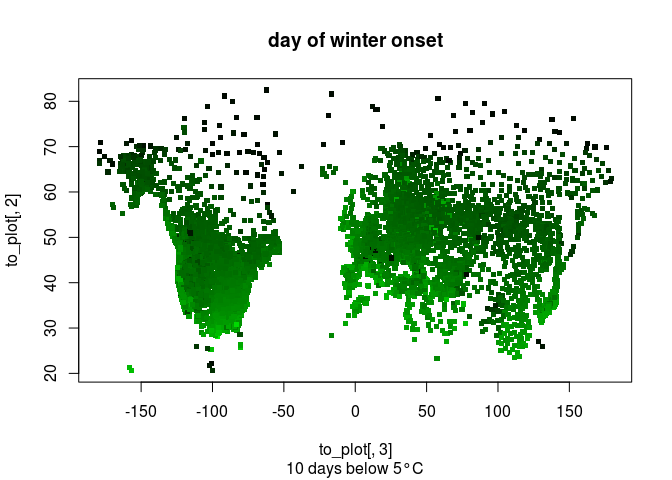
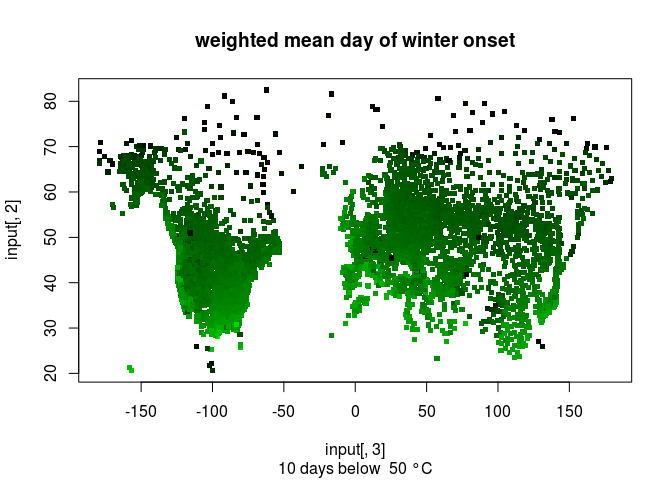
knit to md

diff --git a/01climate_data/02processing/002caculation_predictability/0002coldsum/var_coldsum.md b/01climate_data/02processing/002caculation_predictability/0002coldsum/var_coldsum.md
@@ -255,8 +255,8 @@ The location metadata has been erased in the meantime, because it takes quite a 
 A bit of cleaning...
 
     ##             used  (Mb) gc trigger   (Mb)  max used   (Mb)
-    ## Ncells    835201  44.7    1442291   77.1   1168576   62.5
-    ## Vcells 124352696 948.8  192299748 1467.2 299982432 2288.7
+    ## Ncells    835466  44.7    1442291   77.1   1168576   62.5
+    ## Vcells 124353909 948.8  192300935 1467.2 299983723 2288.7
 
 ### General idea
 
@@ -403,6 +403,21 @@ weighted_means<-function(resm,nm){ #calculate row-wise means of a matrix, weight
 }
 ```
 
+### function to calculate standard deviation
+
+``` r
+standard_dev<-function(resm){ #calculate row-wise sd of a matrix, ignoring any NAs
+  ms<-rep(NA, nrow(resm))
+  for (i in 1:nrow(resm)){
+    worked<-which(!is.na(resm[i,1:ncol(resm)]))
+    if (length(worked)>3){
+      ms[i]<-sd(resm[i,worked[worked>3]])
+    }
+  }
+  return(ms)
+}
+```
+
 ### wrapping function to run the code for all stations
 
 ``` r
@@ -421,14 +436,14 @@ nmat[,1:3]<-resmat[,1:3]
 #loop through all stations, calculate winter onset given x and y values
 for (station in 1:length(sfile)){
   r<-do_all(station,x,y)
+  r[[1]][r[[2]]<100]<-NA #remove all years with less than 100 days of data
   resmat[station,4:(length(r[[1]])+3)]<-r[[1]]
   nmat  [station,4:(length(r[[2]])+3)]<-r[[2]]
 }
 
-#store only ID,lat,lon,mean winter, sd(winter)
-final<-resmat[,1:3]
-final$means<-weighted_means(resmat,nmat)
-return(final)
+final<-resmat
+final2<-nmat
+return(list(final,final2))
 }
 ```
 
@@ -443,42 +458,241 @@ final_20_100<-loop_stations(x=20,y=100)
 final_5_0<-loop_stations(5,0)
 ```
 
-### plotting the results
+*The results are stored in lists with 2 entries: final\[\[1\]\] is the matrix with winter onsets in each year (columns) and for each station (rows), final\[\[2\]\] is a matrix with the according sample size (number of days per year)*
+
+### plotting results
+
+The follwoing chunk plots mean winter onset (weighted by sample size within each year, i.e. days with data), then sd(winter onset), and lastly the coefficient of variation, sd/mean. This is done for four parameter combinations (only 1 available at github).
 
 ``` r
-plot_results<-function(input,sub){
-  to_plot<-input[is.na(input$means)==FALSE,]
-  plot(to_plot[,2]~to_plot[,3],bg=rgb(0,to_plot$means,0,maxColorValue=372),col=NA,main="day of winter onset",sub=sub,pch=22,cex=0.8)
+lis<-list(final_10_50,final_5_20,final_20_100,final_5_0)
+x<-c(10,5,20,5)
+y<-c(50,20,100,0)
+CV<-list(NA,NA,NA,NA) # will be used in later chunk
+
+
+for (i in 1:length(lis)){
+  input <- lis[[i]]
+  subtitle<-paste(x[i],"days below ", y[i], "°C") #will be needed in figures
+  
+  input[[1]]$means<-weighted_means(input[[1]],input[[2]])
+  input[[1]]$sds<-standard_dev(input[[1]])
+  input<-input[[1]]
+  input<-input[!is.na(input$means),]
+  plot(input[,2]~input[,3],bg=rgb(0,input$means,0,maxColorValue=372),col=NA,main="weighted mean day of winter onset",sub=subtitle,pch=22,cex=0.8)
+   
+  input$sds[!is.finite(input$sds)]<-NA
+  input<-input[!is.na(input$sds),]
+  input<-input[input$sds>0,]
+  plot(input[,2]~input[,3],bg=rgb(0,input$sds,0,maxColorValue=max(input$sds)),col=NA,main="Sd of winter onset",sub=subtitle,pch=22,cex=0.8)
+  
+  input$CV<-input$sds/input$means
+  input$CV[!is.finite(input$CV)]<-NA
+  input<-input[!is.na(input$CV),]
+  CV[[i]]<-as.data.frame(input$CV,input$V1)
+  plot(input[,2]~input[,3],bg=rgb(0,input$CV,0,maxColorValue=max(input$CV)),col=NA,main="Sd/mean of winter onset",sub=subtitle,pch=22,cex=0.8)
+}
+```
+
+![](var_coldsum_files/figure-markdown_github/plot_the_results-1.png)![](var_coldsum_files/figure-markdown_github/plot_the_results-2.png)![](var_coldsum_files/figure-markdown_github/plot_the_results-3.png)![](var_coldsum_files/figure-markdown_github/plot_the_results-4.png)![](var_coldsum_files/figure-markdown_github/plot_the_results-5.png)![](var_coldsum_files/figure-markdown_github/plot_the_results-6.png)![](var_coldsum_files/figure-markdown_github/plot_the_results-7.png)![](var_coldsum_files/figure-markdown_github/plot_the_results-8.png)![](var_coldsum_files/figure-markdown_github/plot_the_results-9.png)![](var_coldsum_files/figure-markdown_github/plot_the_results-10.png)![](var_coldsum_files/figure-markdown_github/plot_the_results-11.png)![](var_coldsum_files/figure-markdown_github/plot_the_results-12.png)
+
+``` r
+minesweep_r <- function (input_vector){
+  mines_vector <- rep(0,1000)
+  mines_vector[sample(1000,10)]<-1
+  if (sum(mines_vector[input_vector])>0){print ("you lost")} else {print ("you won")}
+}
+minesweep_r(input_vector=sample(1000,990))
+```
+
+    ## [1] "you lost"
+
+The results of the 4 runs are very similar, and the sd and CV plots are very dark. this is because the standard deviation is rather long-tailed, caused by the northernmost stations. Cropping it a bit to get a better view (last run only):
+
+``` r
+cropped<-input
+cropped$sds[cropped$sds>50]<-50
+cropped$CV[cropped$CV>0.5]<-0.5
+  plot(cropped[,2]~cropped[,3],bg=rgb(0,cropped$sds,0,maxColorValue=max(cropped$sds)),col=NA,main="Sd of winter onset",sub=subtitle,pch=22,cex=0.6)
+```
+
+![](var_coldsum_files/figure-markdown_github/plot_cropped-1.png)
+
+``` r
+  plot(input[,2]~input[,3],bg=rgb(0,cropped$CV,0,maxColorValue=max(cropped$CV)),col=NA,main="Sd/mean of winter onset",sub=subtitle,pch=22,cex=0.6)
+```
+
+![](var_coldsum_files/figure-markdown_github/plot_cropped-2.png)
+
+### comparing the 4 runs
+
+``` r
+m<-merge(CV[[1]],CV[[2]],by=0) #by=0 merges by rownames
+m2<-merge(CV[[3]],CV[[4]],by=0)
+m<-merge(m,m2,by=1) # 1, because they have now a separate column with names
+names(m) =c("ID","10_50","5_20","20_100","5_0")
+plot(m[,2:5])
+```
+
+![](var_coldsum_files/figure-markdown_github/comparison-1.png)
+
+These look quite similar, only the parameter run "20 days below 10°C" sticks out as different. But this parameter combination is really quite different from the others.
+
+### weighted standard deviation
+
+The number of days with data is likely different among years. How is the overall data quality?
+
+``` r
+cut<-final_10_50[[1]][,4:(ncol(final_10_50[[1]])-2)]
+cut2<-final_10_50[[2]][,4:(ncol(final_10_50[[2]])-2)]
+mark<-!is.na(cut)
+test<-cut2[mark]
+hist(test,breaks=100,xlab="Days",ylab ="Frequency",main ="Frequency distribution: Number of days/year")
+```
+
+![](var_coldsum_files/figure-markdown_github/ndays-1.png)
+
+``` r
+length(test[test<300])/length(test)
+```
+
+    ## [1] 0.1256588
+
+``` r
+#20% of the data <350, 12.5 <300
+```
+
+While most years have complete data, a significant proportion (&gt;20%) is incomplete. the between-years standard deviation hence needs to be weighed by the reliability of each year (sample size within year).
+
+#### calculation of weighted sd
+
+``` r
+weighted<-list(NA,NA,NA,NA)
+for (i in 1:length(lis)){
+  input <- lis[[i]]
+  weighted[[i]]<-data.frame(NA,NA,NA)
+  names(weighted[[i]])<-c("ID","m","sd")
+  
+  for (j in 1:nrow(input[[1]])){
+    mean_w_on<-NA #will temporarily store mean winter onset of this station
+    wsd <- NA     #same for weighted sd
+    
+    w_on<-input[[1]][j,4:(ncol(input[[1]])-3)] #a vector with winter onsets of each year
+    weights<-input[[2]][j,4:(ncol(input[[2]])-3)] #deselect first 3 rows (ID,LAT,LON)
+    
+    #remove NAs
+    w<-!is.na(w_on)
+    weights<-weights[w]
+    weights<-weights/372
+    w_on <- w_on[w]
+  
+    #calculate row-wise weighted mean winter onset
+    mean_w_on<-weighted.mean(w_on,weights)
+    
+    #calculate row-wise weighted variance in winter onset
+    #formula variance for weighed sample, using frequency weighed unbiased estimator (~ bessel's correction)
+    upper <- sum(weights*(w_on-mean_w_on)^2)
+    lower <- sum(weights)-1
+    if (lower >0){wsd <- sqrt(upper/lower)} else {wsd<-NA} #if the whole year is NA, sum(weights) is  ==> lower = -1 ==> wsd <-NA
+    #in that case mean_w_on becomes NAN, but that causes no trouble. upper simply becomes 0
+    
+    #store mean_w_on and wsd in dataframe
+
+    weighted[[i]][1:length(input[[1]][,1]),1]<-input[[1]][,1] #assigns names
+    weighted[[i]][j,2]<-mean_w_on
+    weighted[[i]][j,3]<-wsd
+  }
+}
+```
+
+#### plotting new weighted sd's
+
+plotting the results: mean, sd and weighted sd (all weighted). sd has to be capped at 50, CV at 0.5 due to a long right-tail
+
+``` r
+input<-NA
+for (i in 1:length(weighted)){
+ # hist(weighted[[i]]$sd,breaks=100, main = paste("histogram standard deviation run ",i))
+  input<-weighted[[i]]
+  input$sd[input$sd>50]<-50
+  input<-input[!is.na(input$m),]
+  a<-merge(input,locations,by=1)
+  a<-a[!is.na(a$sd),]
+  plot(a$lat~a$lon,bg=rgb(0,a$m,0,maxColorValue=372),col=NA,main="weighted mean day of winter   onset",sub=subtitle,pch=22,cex=0.8,xlab="",ylab="") #subtitle is recycled from earlier chunk (unweighted calcs)
+  plot(a$lat~a$lon,bg=rgb(0,a$sd,0,maxColorValue=max(a$sd)),col=NA,main="Winter variability, weighed",sub= subtitle,pch=22,cex=0.8,xlab="",ylab="")
+  points(x=(-170):(-121),y= rep(25,50), col = rgb (0, 0:50,0,maxColorValue = 50),pch=22,cex=0.8)
+  text(-170,22,"sd=0")
+  text(-120,22,"sd = 50")
+  a$CV<-a$sd/a$m
+ # hist(a$CV,breaks=100,main =paste ("histogram of CV run ",i))
+  a$CV[a$CV>0.5]<-0.5
+  plot(a$lat~a$lon,bg=rgb(0,a$CV,0,maxColorValue=max(a$CV)),col=NA,main="weighted mean/weighted sd of winter onset",sub=subtitle,pch=22,cex=0.8,xlab="",ylab="")
+}
+```
+
+![](var_coldsum_files/figure-markdown_github/plot_cv-1.png)![](var_coldsum_files/figure-markdown_github/plot_cv-2.png)![](var_coldsum_files/figure-markdown_github/plot_cv-3.png)![](var_coldsum_files/figure-markdown_github/plot_cv-4.png)![](var_coldsum_files/figure-markdown_github/plot_cv-5.png)![](var_coldsum_files/figure-markdown_github/plot_cv-6.png)![](var_coldsum_files/figure-markdown_github/plot_cv-7.png)![](var_coldsum_files/figure-markdown_github/plot_cv-8.png)![](var_coldsum_files/figure-markdown_github/plot_cv-9.png)![](var_coldsum_files/figure-markdown_github/plot_cv-10.png)![](var_coldsum_files/figure-markdown_github/plot_cv-11.png)![](var_coldsum_files/figure-markdown_github/plot_cv-12.png)
+
+### some extremely preliminary models:
+
+``` r
+a$alt[a$alt==-999.9]<-NA
+a$sd[a$sd>100]<-100
+a<-a[!is.na(a$alt),]
+
+do_models<-function(variable,name){
+M<-lm(variable~a$lat+a$lon+a$alt)
+
+M2<-lm(variable~a$lat)
+plot(variable~a$lat,main = paste(name," vs lat"))#,sub=paste("slope ~ ",round(coef(M2)[2]*10,4)," per 10°"))
+abline(M2,col=2,lwd=2)
+
+M3<-lm(variable~a$lon)
+plot(variable~a$lon,main = paste(name," vs lon"))#,sub=paste("slope ~ ",round(coef(M3)[2]*100,4)," per 100°"))
+abline(M3,col=2,lwd=2)
+
+M4<-lm(variable~a$alt)
+plot(variable~a$alt,main = paste(name, " vs altitude"))#,sub=paste("slope ~ ",round(coef(M4)[2]*1000,4), "per 1000m"))
+abline(M4,col=2,lwd=2)
 }
 
-plot_results(final_10_50,"10 days below 5°C")
+do_models(a$m,"mean")
 ```
 
-![](var_coldsum_files/figure-markdown_github/plot_the_results-1.png)
+![](var_coldsum_files/figure-markdown_github/models-1.png)![](var_coldsum_files/figure-markdown_github/models-2.png)![](var_coldsum_files/figure-markdown_github/models-3.png)
 
 ``` r
-plot_results(final_20_100,"20 days below 10°C")
+do_models(a$sd,"sd")
 ```
 
-![](var_coldsum_files/figure-markdown_github/plot_the_results-2.png)
+![](var_coldsum_files/figure-markdown_github/models-4.png)![](var_coldsum_files/figure-markdown_github/models-5.png)![](var_coldsum_files/figure-markdown_github/models-6.png)
 
 ``` r
-plot_results(final_5_0,"5 days below 0°C")
+do_models(a$CV, "cv")
 ```
 
-![](var_coldsum_files/figure-markdown_github/plot_the_results-3.png)
+![](var_coldsum_files/figure-markdown_github/models-7.png)![](var_coldsum_files/figure-markdown_github/models-8.png)![](var_coldsum_files/figure-markdown_github/models-9.png)
+
+### cropping latitudes
+
+latitudes &gt; 60°N are kind of special. remove
 
 ``` r
-plot_results(final_5_20,"5 days below 2°C")
+a<-a[a$lat<60,]
+do_models(a$m,"mean")
 ```
 
-![](var_coldsum_files/figure-markdown_github/plot_the_results-4.png)
-
-These look quite similar...
+![](var_coldsum_files/figure-markdown_github/crop_lats-1.png)![](var_coldsum_files/figure-markdown_github/crop_lats-2.png)![](var_coldsum_files/figure-markdown_github/crop_lats-3.png)
 
 ``` r
-mydat<-data.frame(final_10_50[,4],final_20_100[,4],final_5_0[,4],final_5_20[,4])
-plot(mydat)
+do_models(a$sd,"sd")
 ```
 
-![](var_coldsum_files/figure-markdown_github/compare_results-1.png)
+![](var_coldsum_files/figure-markdown_github/crop_lats-4.png)![](var_coldsum_files/figure-markdown_github/crop_lats-5.png)![](var_coldsum_files/figure-markdown_github/crop_lats-6.png)
+
+``` r
+do_models(a$CV, "cv")
+```
+
+![](var_coldsum_files/figure-markdown_github/crop_lats-7.png)![](var_coldsum_files/figure-markdown_github/crop_lats-8.png)![](var_coldsum_files/figure-markdown_github/crop_lats-9.png)
+
+The mean winter onset decreases (becomes earlier) at higher latitudes, is slightly higher (later) in Europe than in America (though coverage of canada is way lower than scandinavia), and decreases with altitude (earlier high up). SD is not sensible due to these patterns, better use CV = sd/mean. The CV is independent of latitude, but increases with altitude.
